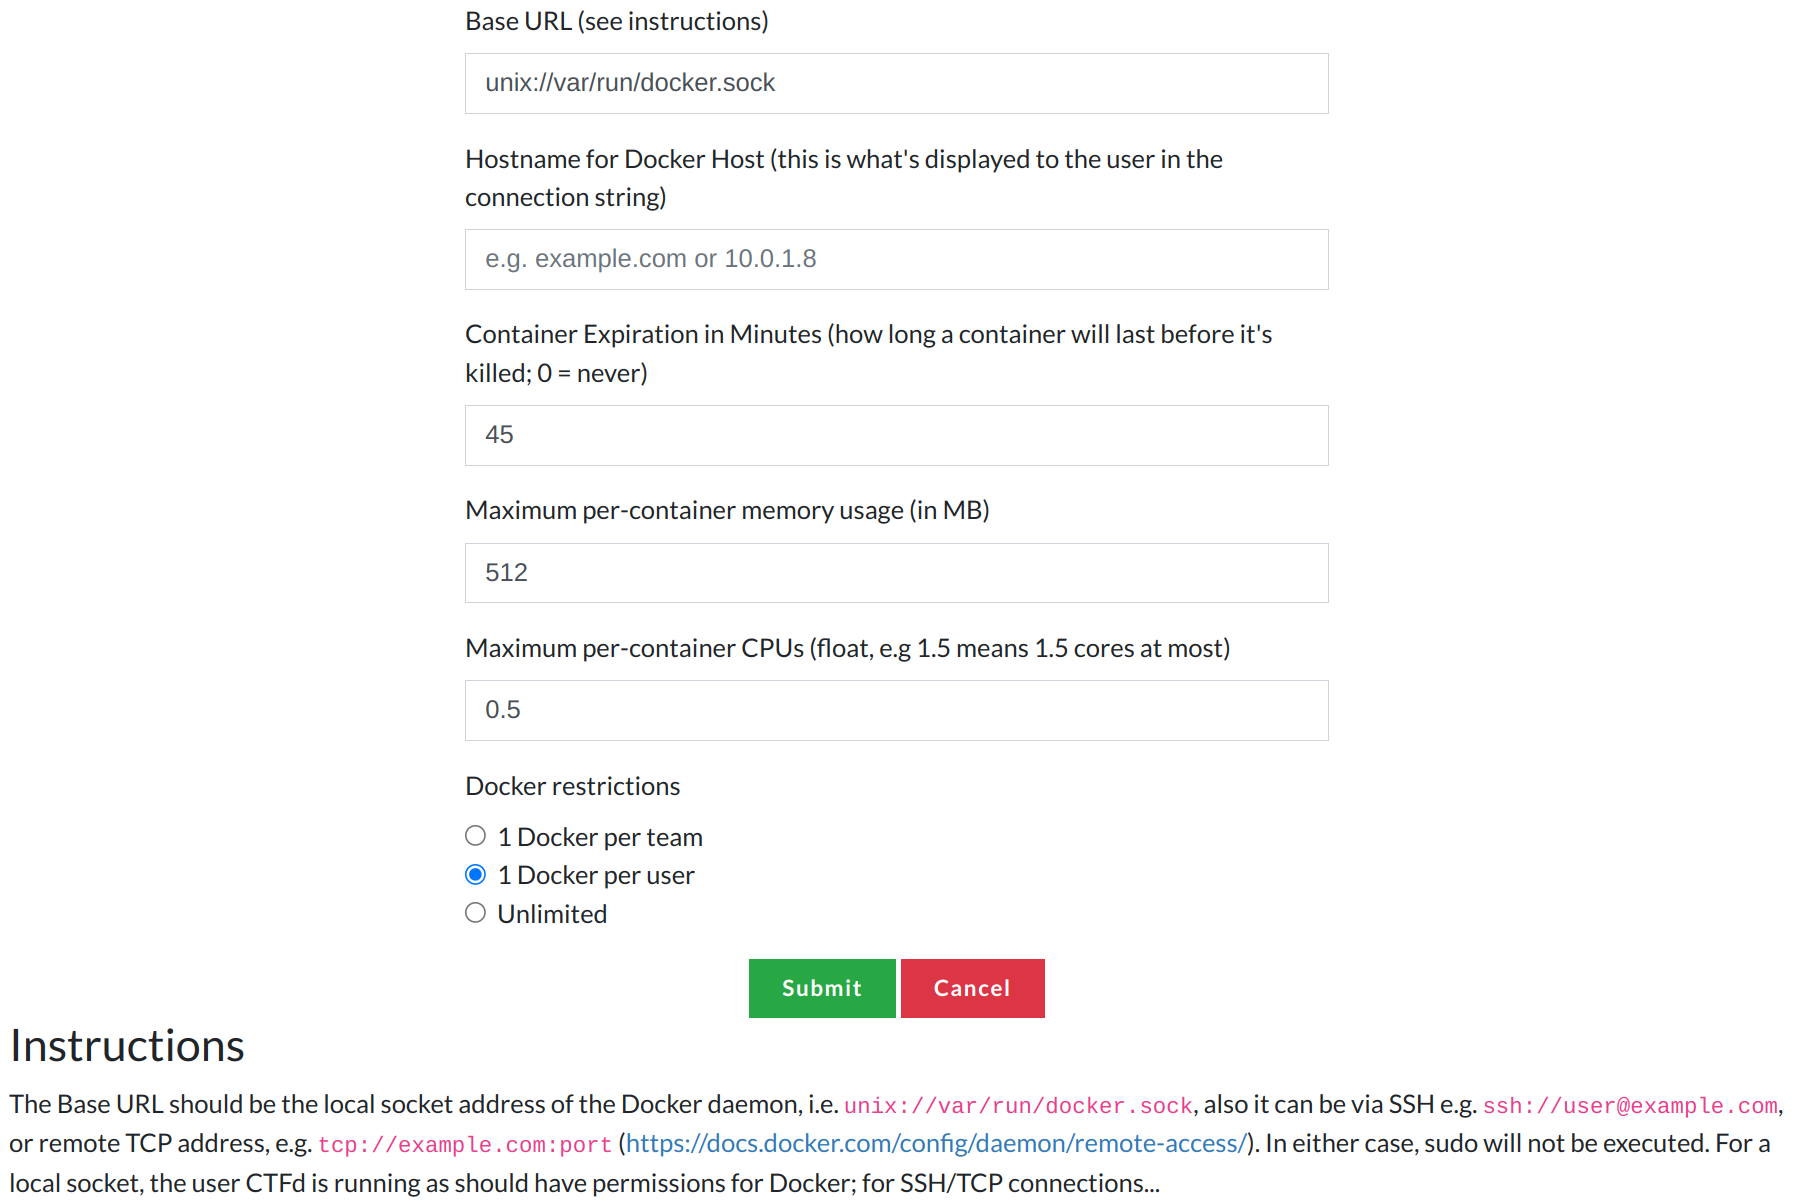
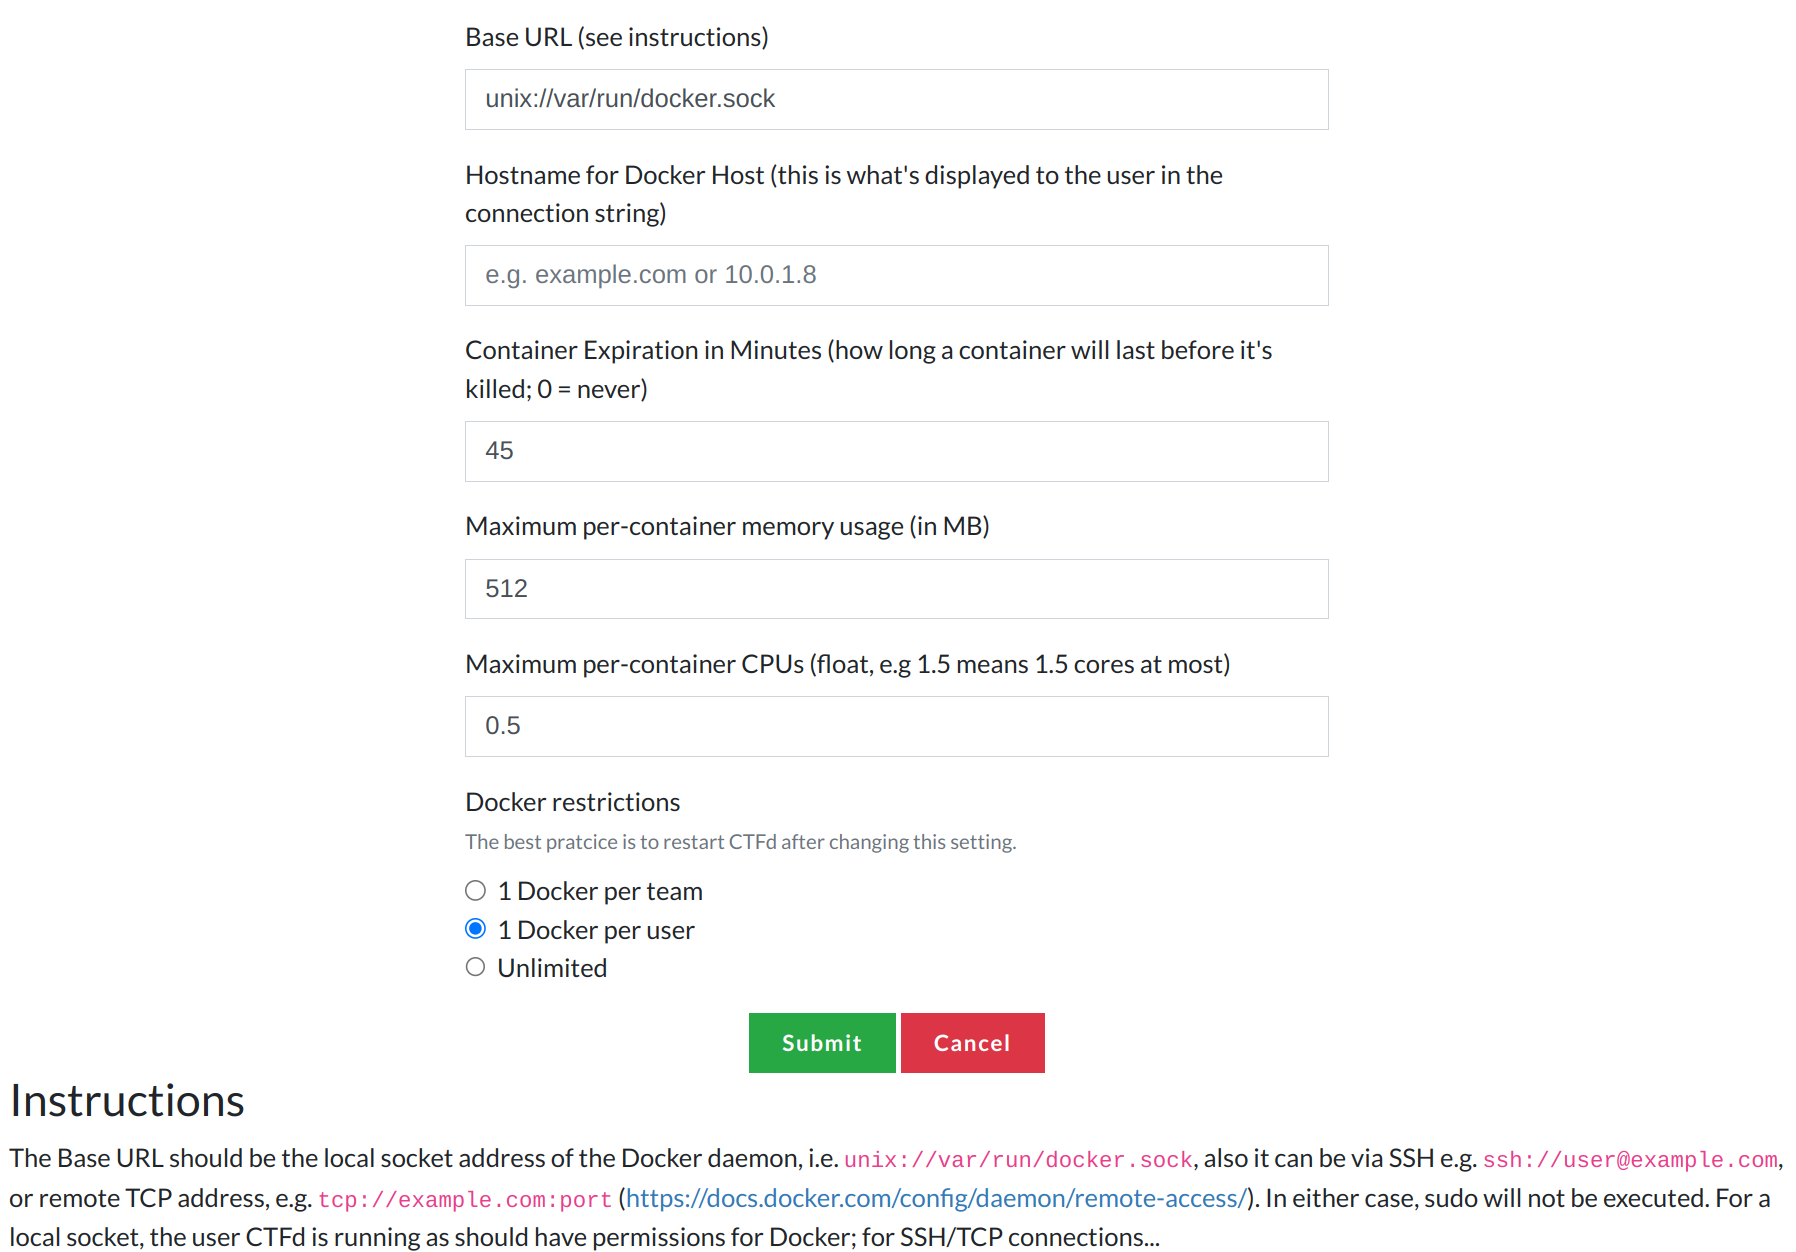
Improve docker restricitions

diff --git a/templates/container_settings.html b/templates/container_settings.html
@@ -65,6 +65,10 @@
 				<div class="form-group">
 					<label for="docker_assignment">
 						Docker restrictions <!-- Label for Docker assignment options -->
+						<br>
+						<small class="text-muted">
+							The best pratcice is to restart CTFd after changing this setting.
+						</small>
 					</label>
 					<div class="form-check">
 						<input class="form-check-input" type="radio" name="docker_assignment" id="docker_per_team"

diff --git a/routes.py b/routes.py
@@ -7,7 +7,7 @@ like updating settings and viewing the container dashboard.
 
 import datetime
 
-from flask import Blueprint, request, Flask, render_template, url_for, redirect, flash, current_app
+from flask import Blueprint, request, Flask, render_template, url_for, redirect, current_app
 
 from CTFd.models import db
 from CTFd.utils.decorators import authed_only, admins_only, during_ctf_time_only, ratelimit, require_verified_emails
@@ -27,7 +27,7 @@ containers_bp = Blueprint(
 def settings_to_dict(settings):
     """
     Convert settings objects to a dictionary.
-    
+
     Args:
         settings (list): A list of settings model objects.
 
@@ -48,11 +48,10 @@ def register_app(app: Flask):
     """
     container_settings = settings_to_dict(ContainerSettingsModel.query.all())
     log("containers_debug", format="Registering containers blueprint with settings: {settings}",
-        settings=container_settings)
+            settings=container_settings)
 
     # Initialize a global container manager using the app context and settings
-    global container_manager
-    container_manager = ContainerManager(container_settings, app)
+    app.container_manager = ContainerManager(container_settings, app)
     return containers_bp
 
 def format_time_filter(timestamp):
@@ -101,7 +100,7 @@ def route_running_container():
                 challenge_id=request.json.get("chal_id"))
             return {"error": "An error occurred."}, 500
 
-        docker_assignment = container_manager.settings.get("docker_assignment")
+        docker_assignment = current_app.container_manager.settings.get("docker_assignment")
         log("containers_debug", format="CHALL_ID:{challenge_id}|Docker assignment mode: {mode}",
             challenge_id=challenge.id,
             mode=docker_assignment)
@@ -149,12 +148,12 @@ def route_request_container():
         return {"error": "Invalid request"}, 400
 
     try:
-        docker_assignment = container_manager.settings.get("docker_assignment")
+        docker_assignment = current_app.container_manager.settings.get("docker_assignment")
         log("containers_debug", format="CHALL_ID:{challenge_id}|Docker assignment mode: {mode}",
             challenge_id=request.json.get("chal_id"),
             mode=docker_assignment)
 
-        return create_container(container_manager, request.json.get("chal_id"), user.id, user.team_id, docker_assignment)
+        return create_container(current_app.container_manager, request.json.get("chal_id"), user.id, user.team_id, docker_assignment)
     except Exception as err:
         log("containers_errors", format="CHALL_ID:{challenge_id}|Error during container creation ({error})",
             challenge_id=request.json.get("chal_id"),
@@ -178,12 +177,12 @@ def route_renew_container():
         return {"error": "Invalid request"}, 400
 
     try:
-        docker_assignment = container_manager.settings.get("docker_assignment")
+        docker_assignment = current_app.container_manager.settings.get("docker_assignment")
         log("containers_debug", format="CHALL_ID:{challenge_id}|Docker assignment mode: {mode}",
             challenge_id=request.json.get("chal_id"),
             mode=docker_assignment)
 
-        return renew_container(container_manager, request.json.get("chal_id"), user.id, user.team_id, docker_assignment)
+        return renew_container(current_app.container_manager, request.json.get("chal_id"), user.id, user.team_id, docker_assignment)
     except Exception as err:
         log("containers_errors", format="CHALL_ID:{challenge_id}|Error during container renewal ({error})",
             challenge_id=request.json.get("chal_id"),
@@ -206,7 +205,7 @@ def route_restart_container():
         log("containers_errors", format="Invalid request to /api/reset")
         return {"error": "Invalid request"}, 400
 
-    docker_assignment = container_manager.settings.get("docker_assignment")
+    docker_assignment = current_app.container_manager.settings.get("docker_assignment")
     log("containers_debug", format="CHALL_ID:{challenge_id}|Docker assignment mode: {mode}",
         challenge_id=request.json.get("chal_id"),
         mode=docker_assignment)
@@ -223,11 +222,11 @@ def route_restart_container():
         log("containers_actions", format="CHALL_ID:{challenge_id}|Resetting container '{container_id}'",
             challenge_id=request.json.get("chal_id"),
             container_id=running_container.container_id)
-        kill_container(container_manager, running_container.container_id, request.json.get("chal_id"))
+        kill_container(current_app.container_manager, running_container.container_id, request.json.get("chal_id"))
 
     log("containers_actions", format="CHALL_ID:{challenge_id}|Recreating container",
         challenge_id=request.json.get("chal_id"))
-    return create_container(container_manager, request.json.get("chal_id"), user.id, user.team_id, docker_assignment)
+    return create_container(current_app.container_manager, request.json.get("chal_id"), user.id, user.team_id, docker_assignment)
 
 @containers_bp.route('/api/stop', methods=['POST'])
 @authed_only
@@ -245,7 +244,7 @@ def route_stop_container():
         log("containers_errors", format="Invalid request to /api/stop")
         return {"error": "Invalid request"}, 400
 
-    docker_assignment = container_manager.settings.get("docker_assignment")
+    docker_assignment = current_app.container_manager.settings.get("docker_assignment")
     log("containers_debug", format="CHALL_ID:{challenge_id}|Docker assignment mode: {mode}",
         challenge_id=request.json.get("chal_id"),
         mode=docker_assignment)
@@ -262,7 +261,7 @@ def route_stop_container():
         log("containers_actions", format="CHALL_ID:{challenge_id}|Stopping container '{container_id}'",
             challenge_id=request.json.get("chal_id"),
             container_id=running_container.container_id)
-        return kill_container(container_manager, running_container.container_id, request.json.get("chal_id"))
+        return kill_container(current_app.container_manager, running_container.container_id, request.json.get("chal_id"))
 
     log("containers_errors", format="CHALL_ID:{challenge_id}|No running container found to stop",
         challenge_id=request.json.get("chal_id"))
@@ -282,7 +281,7 @@ def route_kill_container():
     # Extract the container ID and perform the kill operation
     container_id = request.json.get("container_id")
     log("containers_actions", format="Admin killing container '{container_id}'", container_id=container_id)
-    return kill_container(container_manager, container_id, "N/A")
+    return kill_container(current_app.container_manager, container_id, "N/A")
 
 @containers_bp.route('/api/purge', methods=['POST'])
 @admins_only
@@ -304,7 +303,7 @@ def route_purge_containers():
             log("containers_actions", format="Admin killing container '{container_id}'",
                 container_id=container.container_id)
             # Attempt to kill the container using its ID
-            kill_container(container_manager, container.container_id, "N/A")
+            kill_container(current_app.container_manager, container.container_id, "N/A")
         except Exception as err:
             # Log any errors encountered while killing individual containers
             log("containers_errors", format="Error during purging container '{container_id}' ({error})",
@@ -328,7 +327,7 @@ def route_get_images():
 
     try:
         # Attempt to retrieve the list of available Docker images
-        images = container_manager.get_images()
+        images = current_app.container_manager.get_images()
         # Log the number of images successfully retrieved
         log("containers_actions", format="Admin successfully retrieved {count} Docker images",
                 count=len(images))
@@ -346,7 +345,7 @@ def route_get_images():
 def route_update_settings():
     """
     Admin route to update container settings.
-    
+
     This route allows administrators to modify container-related configurations such as Docker base URL,
     hostname, expiration time, memory, and CPU settings. These settings are used by the container manager
     to handle container creation and management.
@@ -413,9 +412,10 @@ def route_update_settings():
         # Reload settings into the container manager to apply changes immediately
         all_settings = ContainerSettingsModel.query.all()
         new_settings = settings_to_dict(all_settings)
-        container_manager.settings = new_settings
+        with current_app.app_context():
+                    current_app.container_manager.settings.update(new_settings)
         log("containers_actions", format="Admin completed settings update. New settings: {settings}",
-            settings=container_manager.settings)
+                settings=current_app.container_manager.settings)
     except Exception as err:
         # Log any error that occurs while updating the container manager settings
         log("containers_errors", format="Admin encountered error while updating container_manager settings ({error})",
@@ -447,7 +447,7 @@ def route_containers_dashboard():
         # Check if the Docker daemon is connected
         connected = False
         try:
-            connected = container_manager.is_connected()
+            connected = current_app.container_manager.is_connected()
             log("containers_debug", format="Admin checked Docker daemon connection: {status}",
                 user_id=admin_user.id, status="Connected" if connected else "Disconnected")
         except Exception as err:
@@ -458,7 +458,7 @@ def route_containers_dashboard():
         # Check the running status of each container and update the corresponding field
         for i, container in enumerate(running_containers):
             try:
-                running_containers[i].is_running = container_manager.is_container_running(
+                running_containers[i].is_running = current_app.container_manager.is_container_running(
                     container.container_id)
                 log("containers_debug", format="Admin checked container '{container_id}' status: {status}",
                     user_id=admin_user.id, container_id=container.container_id,
@@ -470,7 +470,7 @@ def route_containers_dashboard():
                 running_containers[i].is_running = False
 
         # Retrieve the current Docker assignment mode from settings
-        docker_assignment = container_manager.settings.get("docker_assignment")
+        docker_assignment = current_app.container_manager.settings.get("docker_assignment")
         log("containers_debug", format="Admin retrieved Docker assignment mode: {mode}",
             user_id=admin_user.id, mode=docker_assignment)
 
@@ -502,8 +502,7 @@ def route_containers_settings():
     # Retrieve the list of running containers and current settings from the database
     running_containers = ContainerInfoModel.query.order_by(
         ContainerInfoModel.timestamp.desc()).all()
-    settings = settings_to_dict(ContainerSettingsModel.query.all())
     log("containers_actions", format="Admin Container settings called")
 
     # Render the settings template with the retrieved settings and containers
-    return render_template('container_settings.html', settings=settings)
+    return render_template('container_settings.html', settings=current_app.container_manager.settings)

diff --git a/routes_helper.py b/routes_helper.py
@@ -118,7 +118,7 @@ def renew_container(container_manager, challenge_id, user_id, team_id, docker_as
         challenge_id (int): The ID of the associated challenge to be renewed.
         user_id (int): The ID of the user who owns the container.
         team_id (int): The ID of the team that owns the container.
-        docker_assignment (str): The assignment mode for Docker containers (e.g., 'user' or 'team').
+        docker_assignment (str): The assignment mode for Docker containers (e.g., 'user', 'team', 'unlimited').
 
     Returns:
         tuple: A dictionary with a success message and new expiration time or an error message and HTTP status code.
